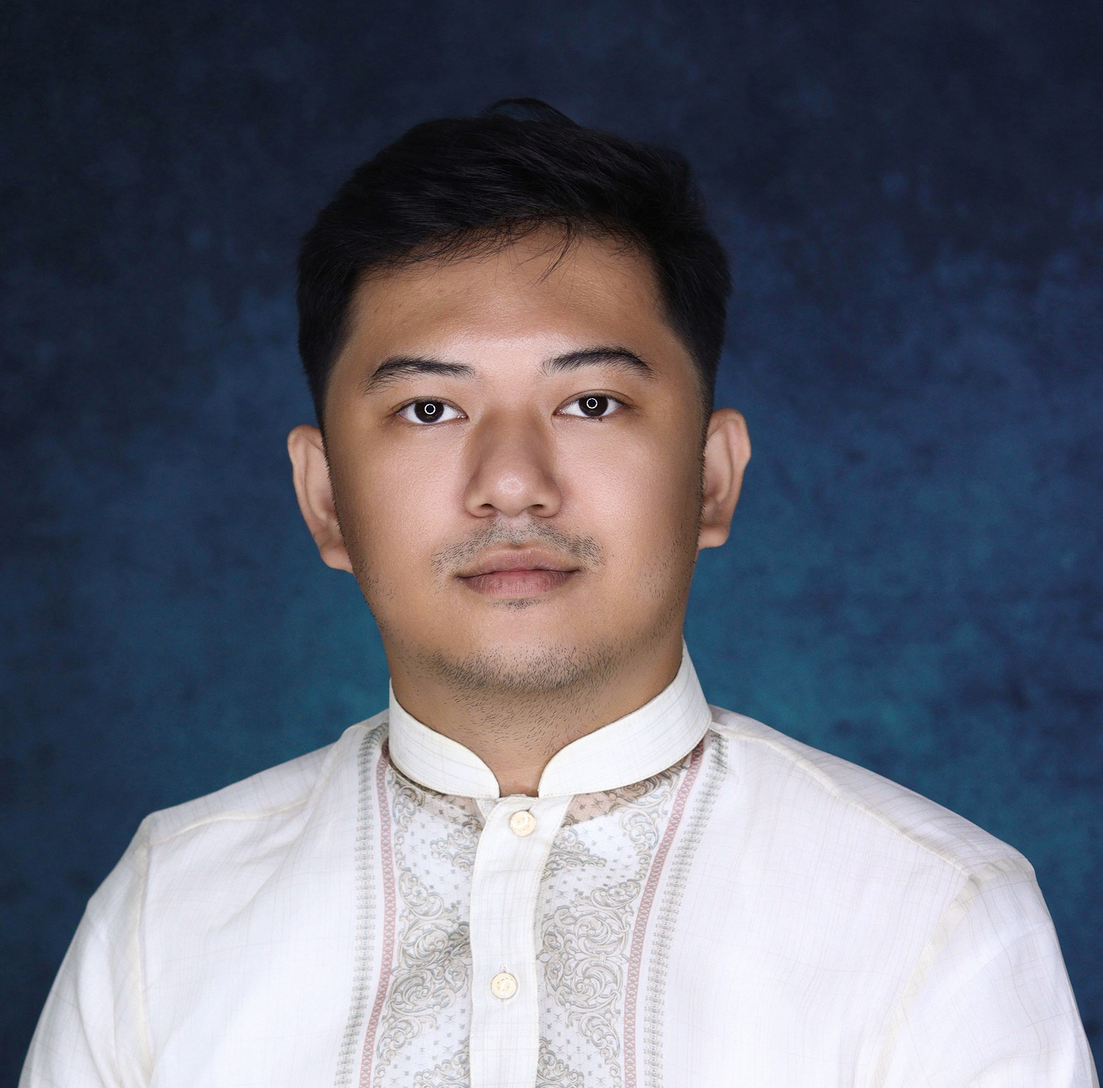
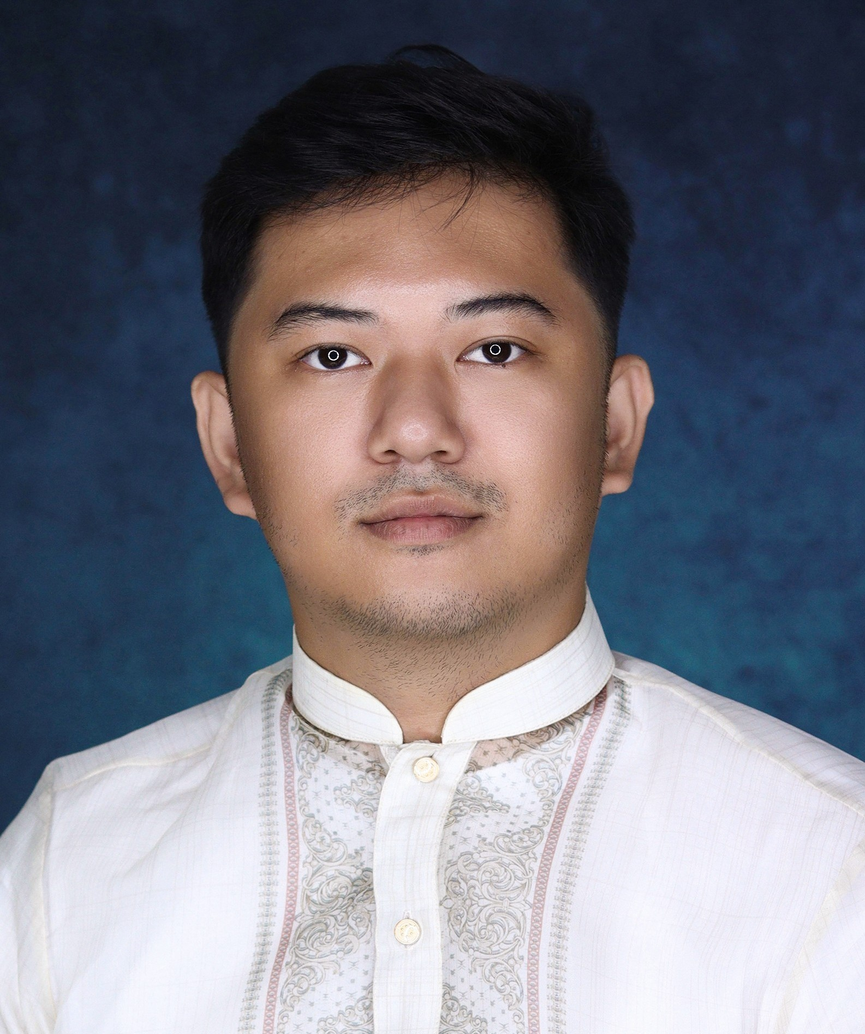
ready

diff --git a/index (6).html b/index (6).html
@@ -116,7 +116,7 @@
             <div class="eyebrow">IT graduate / full-stack developer</div>
             <h1 class="home-title">Crizen<br /><em>Sanchez</em></h1>
             <p class="home-copy">Motivated IT graduate with experience in web development, technical support, digital content management, data entry, and hands-on product work.</p>
-            <div class="socials"><a href="https://www.linkedin.com/in/crizen-sanchez-63917b255" target="_blank" rel="noreferrer">LinkedIn</a><a href="https://github.com/" target="_blank" rel="noreferrer">GitHub</a><a href="mailto:sanchezcrizen@gmail.com">Email</a></div>
+            <div class="socials"><a href="https://www.linkedin.com/in/crizen-sanchez-63917b255" target="_blank" rel="noreferrer">LinkedIn</a><a href="https://github.com/Nezirc" target="_blank" rel="noreferrer">GitHub</a><a href="mailto:sanchezcrizen@gmail.com">Email</a></div>
           </div>
         </div>
         <div class="stats">
